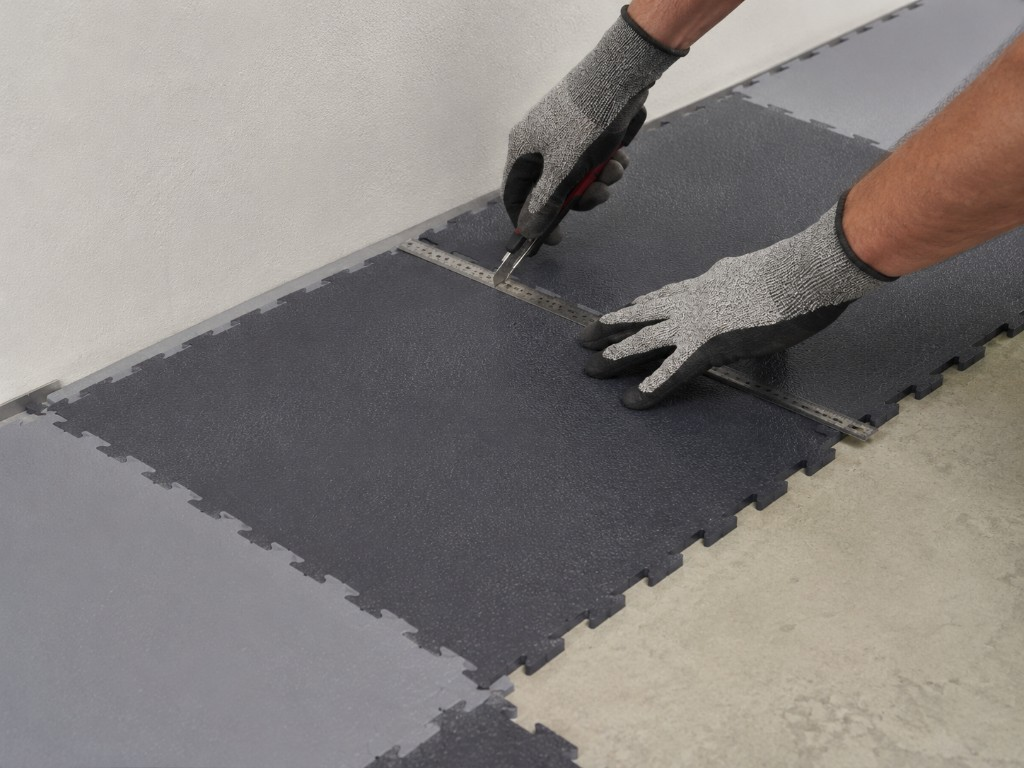
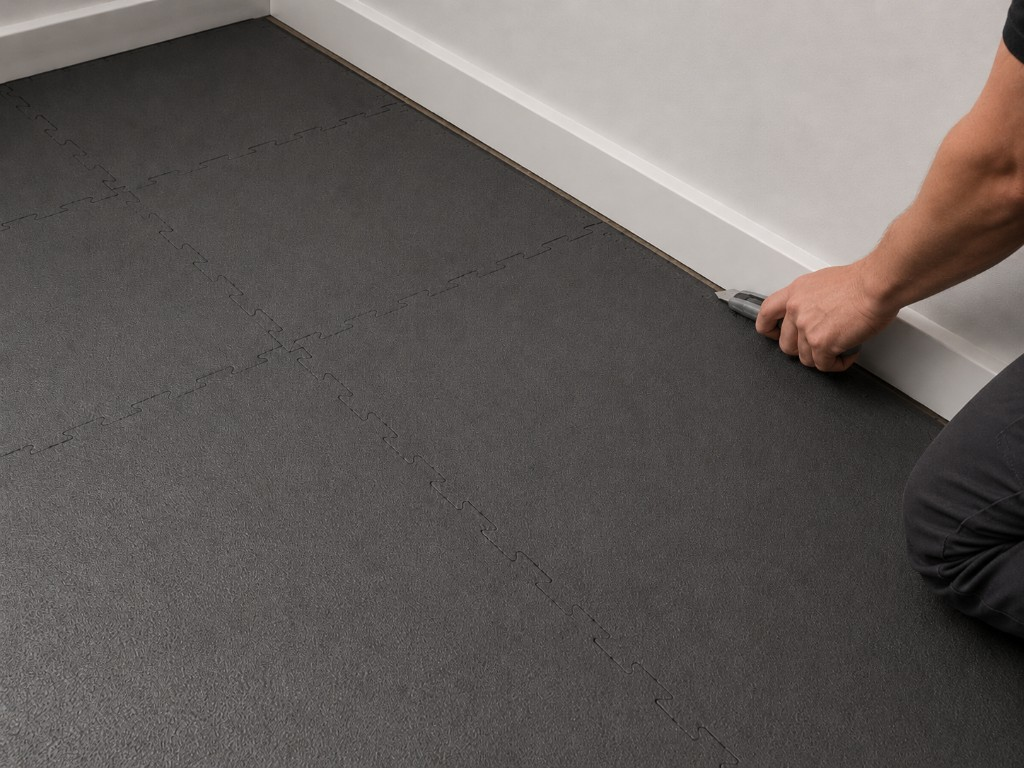
Уточнить текст инструкции и поправить разбивку страниц PDF

diff --git a/src/data/instruction.ts b/src/data/instruction.ts
@@ -132,7 +132,7 @@ export const bases = {
   },
   acceptable: {
     title: 'Допустимое (с предварительной подготовкой)',
-    text: 'Старое керамическое покрытие (плитка, керамогранит) – плитку ПВХ можно монтировать прямо поверх старой плитки. Необходимо затереть и выровнять швы',
+    text: 'Старое керамическое покрытие (плитка, керамогранит) – плитку ПВХ можно монтировать прямо поверх старой плитки, предварительно проверив что она достаточно плотно прикреплена к основанию',
   },
 } as const;
 
@@ -140,7 +140,7 @@ export const floorRequirements: FloorRequirement[] = [
   {
     parameter: 'Ровность',
     value: 'Перепад по высоте не более 2 мм на 2 метра длины',
-    note: 'Перепады, уклоны и неровности недопустимы. Проверяется 2-х метровой рейкой',
+    note: 'Проверяется рейкой длиною 2 и более метров',
     detail:
       'Если поверхность имеет перепады более 2 мм на 2 метра, необходима шлифовка выступов и заполнение впадин. В большинстве случаев для достижения идеальной гладкости рекомендуется использовать самовыравнивающиеся (наливные) полы',
   },
@@ -174,7 +174,7 @@ export const prepSteps: PrepStep[] = [
     step: 2,
     title: 'Выравнивание',
     description: [
-      'Создание идеально ровной плоскости.',
+      'Создание ровной плоскости, см. п.3',
       '- Удалить из основания выступающие элементы, наплывы и прочее',
       '- Заполнить углубления (выбоины, сколы, ямы)',
     ],
@@ -202,14 +202,6 @@ export const prepSteps: PrepStep[] = [
       '- грунтовка марки Ceresit',
       '- грунтовка марки Eurocol',
       'Не использовать пленкообразующие грунтовки',
-    ],
-  },
-  {
-    step: 5,
-    title: 'Нанесение выравнивающей смеси на бетонное основание',
-    description: ['Создание идеально ровного и прочного основания'],
-    note: [
-      'Рекомендуется использовать марки выравнивающих смесей аналогичных маркам используемых грунтовок, для лучшей адгезии.',
     ],
   },
 ];
@@ -253,13 +245,13 @@ export const tools: ToolItem[] = [
   { group: '4. Расходные материалы:', name: 'ветошь', purpose: 'для удаления излишек клея с поверхности плитки' },
   {
     group: '',
-    name: 'растворитель',
-    purpose: 'для удаления незатвердевшего клея с поверхности, например живичный скипидар',
+    name: 'растворитель (живичный скипидар)',
+    purpose: 'для удаления незатвердевшего клея с поверхности',
   },
 ];
 
 export const productNote =
-  'Для монтажа напольного покрытия используется модульная плитка Sensor Tech с пазловым замковым соединением «ласточкин хвост». Покрытие сертифицировано на соответствие «Техническому регламенту о требованиях пожарной безопасности», Федеральный закон от 22 июля 2008 г. № 123-ФЗ';
+  'Для создания прочного напольного покрытия используется модульная плитка Sensor Tech с пазловым замковым соединением «ласточкин хвост». Покрытие сертифицировано на соответствие «Техническому регламенту о требованиях пожарной безопасности», Федеральный закон от 22 июля 2008 г. № 123-ФЗ';
 
 export const tileVisual = {
   alt: 'Модульная плитка Sensor Tech, вид сверху',
@@ -301,8 +293,8 @@ export const adhesives: AdhesiveProduct[] = [
       Смешивание: '100:12,5 (A:B)',
       Расход: '300–500 г/м²',
       Шпатель: 'TKB A1/A2',
-      'Время на укладку': 'ок. 90 мин при +20 °C',
-      Затвердевание: 'ок. 24 ч',
+      'Время на укладку': '90 мин при +20 °C',
+      Затвердевание: '24 ч',
       Условия: 'материал и воздух ≥ +18 °C, пол ≥ +15 °C, влажность 35–75%',
     },
     techNote: 'Перемешать до однородности, перелить в чистую ёмкость и перемешать ещё раз.',
@@ -359,7 +351,7 @@ export const installSteps: InstallStep[] = [
   {
     step: 4,
     title: 'Сухая раскладка «Г»-образной конструкции и «маяк»',
-    text: 'Выложите первые 2–3 плитки вдоль двух смежных стен, образуя «Г»-образную конструкцию. Соедините их плитками, уложенными по центральной оси «веера». На данном этапе не используйте клей. Уложите их «насухо», проверьте угольником точность угла 90 градусов. Если плитка легла идеально, вы получили «маяк», от которого пойдет дальнейший монтаж покрытия. Теперь вы будете двигаться из угла в сторону противоположных стен, постепенно расширяя «веер».',
+    text: 'Выложите первые 2–3 плитки вдоль двух смежных стен, образуя «Г»-образную конструкцию. Соедините их плитками, уложенными по центральной оси «веера». На данном этапе не используйте клей. Уложите их «насухо». Если плитка легла идеально, вы получили «маяк», от которого пойдет дальнейший монтаж покрытия. Теперь вы будете двигаться из угла в сторону противоположных стен, постепенно расширяя «веер».',
   },
   {
     step: 5,
@@ -385,7 +377,7 @@ export const installSteps: InstallStep[] = [
   {
     step: 9,
     title: 'Затвердевание клея',
-    text: 'Время затвердевания клея 8–10 часов при температуре +20 °C. Время окончательного высыхания 24 часа.',
+    text: 'Время затвердевания клея при различных температурных режимах, подробнее смотреть п.7',
   },
 ];
 
@@ -433,7 +425,7 @@ export const operationalLimits = {
     { label: 'Температурный диапазон', value: 'от −15 до +50 °C' },
     {
       label: 'Нагрузки',
-      value: 'статические до 20 т/м²; динамические (устойчиво к ударам от падения коробок и перемещению тележек и рохлей)',
+      value: 'статические до 500 т/м²; динамические (устойчиво к ударам от падения коробок и перемещению тележек и рохлей)',
     },
     {
       label: 'Химическая стойкость',
@@ -442,7 +434,7 @@ export const operationalLimits = {
     },
     {
       label: 'УФ-излучение',
-      value: 'при постоянном воздействии прямых солнечных лучей со временем теряет насыщенность цвета.',
+      value: 'при постоянном воздействии прямых солнечных лучей возможна частичная потеря насыщенности цвета',
     },
   ],
 } as const;

diff --git a/src/styles/print.css b/src/styles/print.css
@@ -237,15 +237,17 @@
     flex: 1 1 auto;
   }
 
-  /* Основания + требования */
+  /* Основания */
   .print-sheet--2 .base-compare {
     flex: 1 1 auto;
     align-items: stretch;
+    min-height: 0;
   }
 
   .print-sheet--2 .base-compare__item {
     display: flex;
     flex-direction: column;
+    min-height: 0;
   }
 
   .print-sheet--2 .base-compare__item .image-block {
@@ -253,15 +255,30 @@
     display: flex;
     flex-direction: column;
     margin-top: auto;
+    min-height: 0;
   }
 
   .print-sheet--2 .base-compare__item img {
     flex: 1 1 auto;
     width: 100%;
+    min-height: 12rem;
     object-fit: cover;
   }
 
-  /* Подготовка основания */
+  /* Требования + подготовка основания */
+  .print-sheet--3 #floor-req {
+    flex: 0 0 auto;
+  }
+
+  .print-sheet--3 #floor-req .req-table-wrap {
+    margin-bottom: 0;
+  }
+
+  .print-sheet--3 #prep {
+    flex: 1 1 auto;
+    min-height: 0;
+  }
+
   .print-sheet--3 .step-cards-grid {
     display: grid !important;
     grid-template-columns: repeat(2, 1fr) !important;
@@ -579,15 +596,6 @@
     margin: 0;
     font-size: 0.76rem;
     line-height: 1.42;
-  }
-
-  .print-sheet--7 .hazard-icons {
-    gap: 0.35rem;
-    font-size: 0.74rem;
-  }
-
-  .print-sheet--7 .hazard-icons span {
-    padding: 0.28rem 0.55rem;
   }
 
   .print-sheet--7 .maintenance-section {

diff --git a/src/components.css b/src/components.css
@@ -1210,22 +1210,6 @@
   color: var(--color-text-muted);
 }
 
-.hazard-icons {
-  display: flex;
-  flex-wrap: wrap;
-  gap: var(--space-md);
-  margin-top: var(--space-lg);
-}
-
-.hazard-icons span {
-  padding: 0.5rem 1rem;
-  background: var(--color-warning-bg);
-  border: 1px solid var(--color-warning-border);
-  border-radius: var(--radius-sm);
-  font-size: 0.8125rem;
-  font-weight: 600;
-}
-
 /* Checklist */
 .checklist__list {
   list-style: none;

diff --git a/src/App.tsx b/src/App.tsx
@@ -43,7 +43,6 @@ const prepImages: Record<number, string> = {
   2: images.concreteLeveling,
   3: images.cleaning,
   4: images.priming,
-  5: images.selfLeveling,
 };
 
 const installVisuals: Record<number, StepVisual> = {
@@ -62,8 +61,7 @@ const installImagePositions: Record<number, string> = {
   1: 'center 78%',
   3: 'center bottom',
   4: 'center top',
-  8: 'center 35%',
-  9: 'center top',
+  9: 'center 12%',
 };
 
 export default function App() {
@@ -104,7 +102,9 @@ export default function App() {
             </article>
           </div>
         </Section>
+      </PrintSheet>
 
+      <PrintSheet className="print-sheet--3">
         <Section
           id="floor-req"
           number={sections.floorReq.number}
@@ -112,9 +112,7 @@ export default function App() {
         >
           <FloorRequirementsTable rows={floorRequirements} />
         </Section>
-      </PrintSheet>
 
-      <PrintSheet className="print-sheet--3">
         <Section
           id="prep"
           number={sections.prep.number}
@@ -188,12 +186,6 @@ export default function App() {
                 <p>{item.value}</p>
               </article>
             ))}
-          </div>
-          <div className="hazard-icons" aria-label="Ограничения по агрессивным средам">
-            <span>растворитель</span>
-            <span>ацетон</span>
-            <span>концентрированные кислоты</span>
-            <span>УФ / прямое солнце</span>
           </div>
         </Section>
 

diff --git a/src/data/assets.ts b/src/data/assets.ts
@@ -9,7 +9,6 @@ export const images = {
   prepAssessment: assetUrl('images/local/prep-base-assessment.png'),
   cleaning: local('Photorealistic_modern_warehouse_interior,_the_202606181351.jpeg'),
   priming: local('Photorealistic_modern_warehouse_interior,_the_202606181354.jpeg'),
-  selfLeveling: local('Photorealistic_modern_warehouse_interior,_the_202606181356.jpeg'),
   installation1: assetUrl('images/local/install-acclimatization.png'),
   installGap: assetUrl('images/local/install-gap.png'),
   installAxisLines: assetUrl('images/local/install-axis-lines.png'),